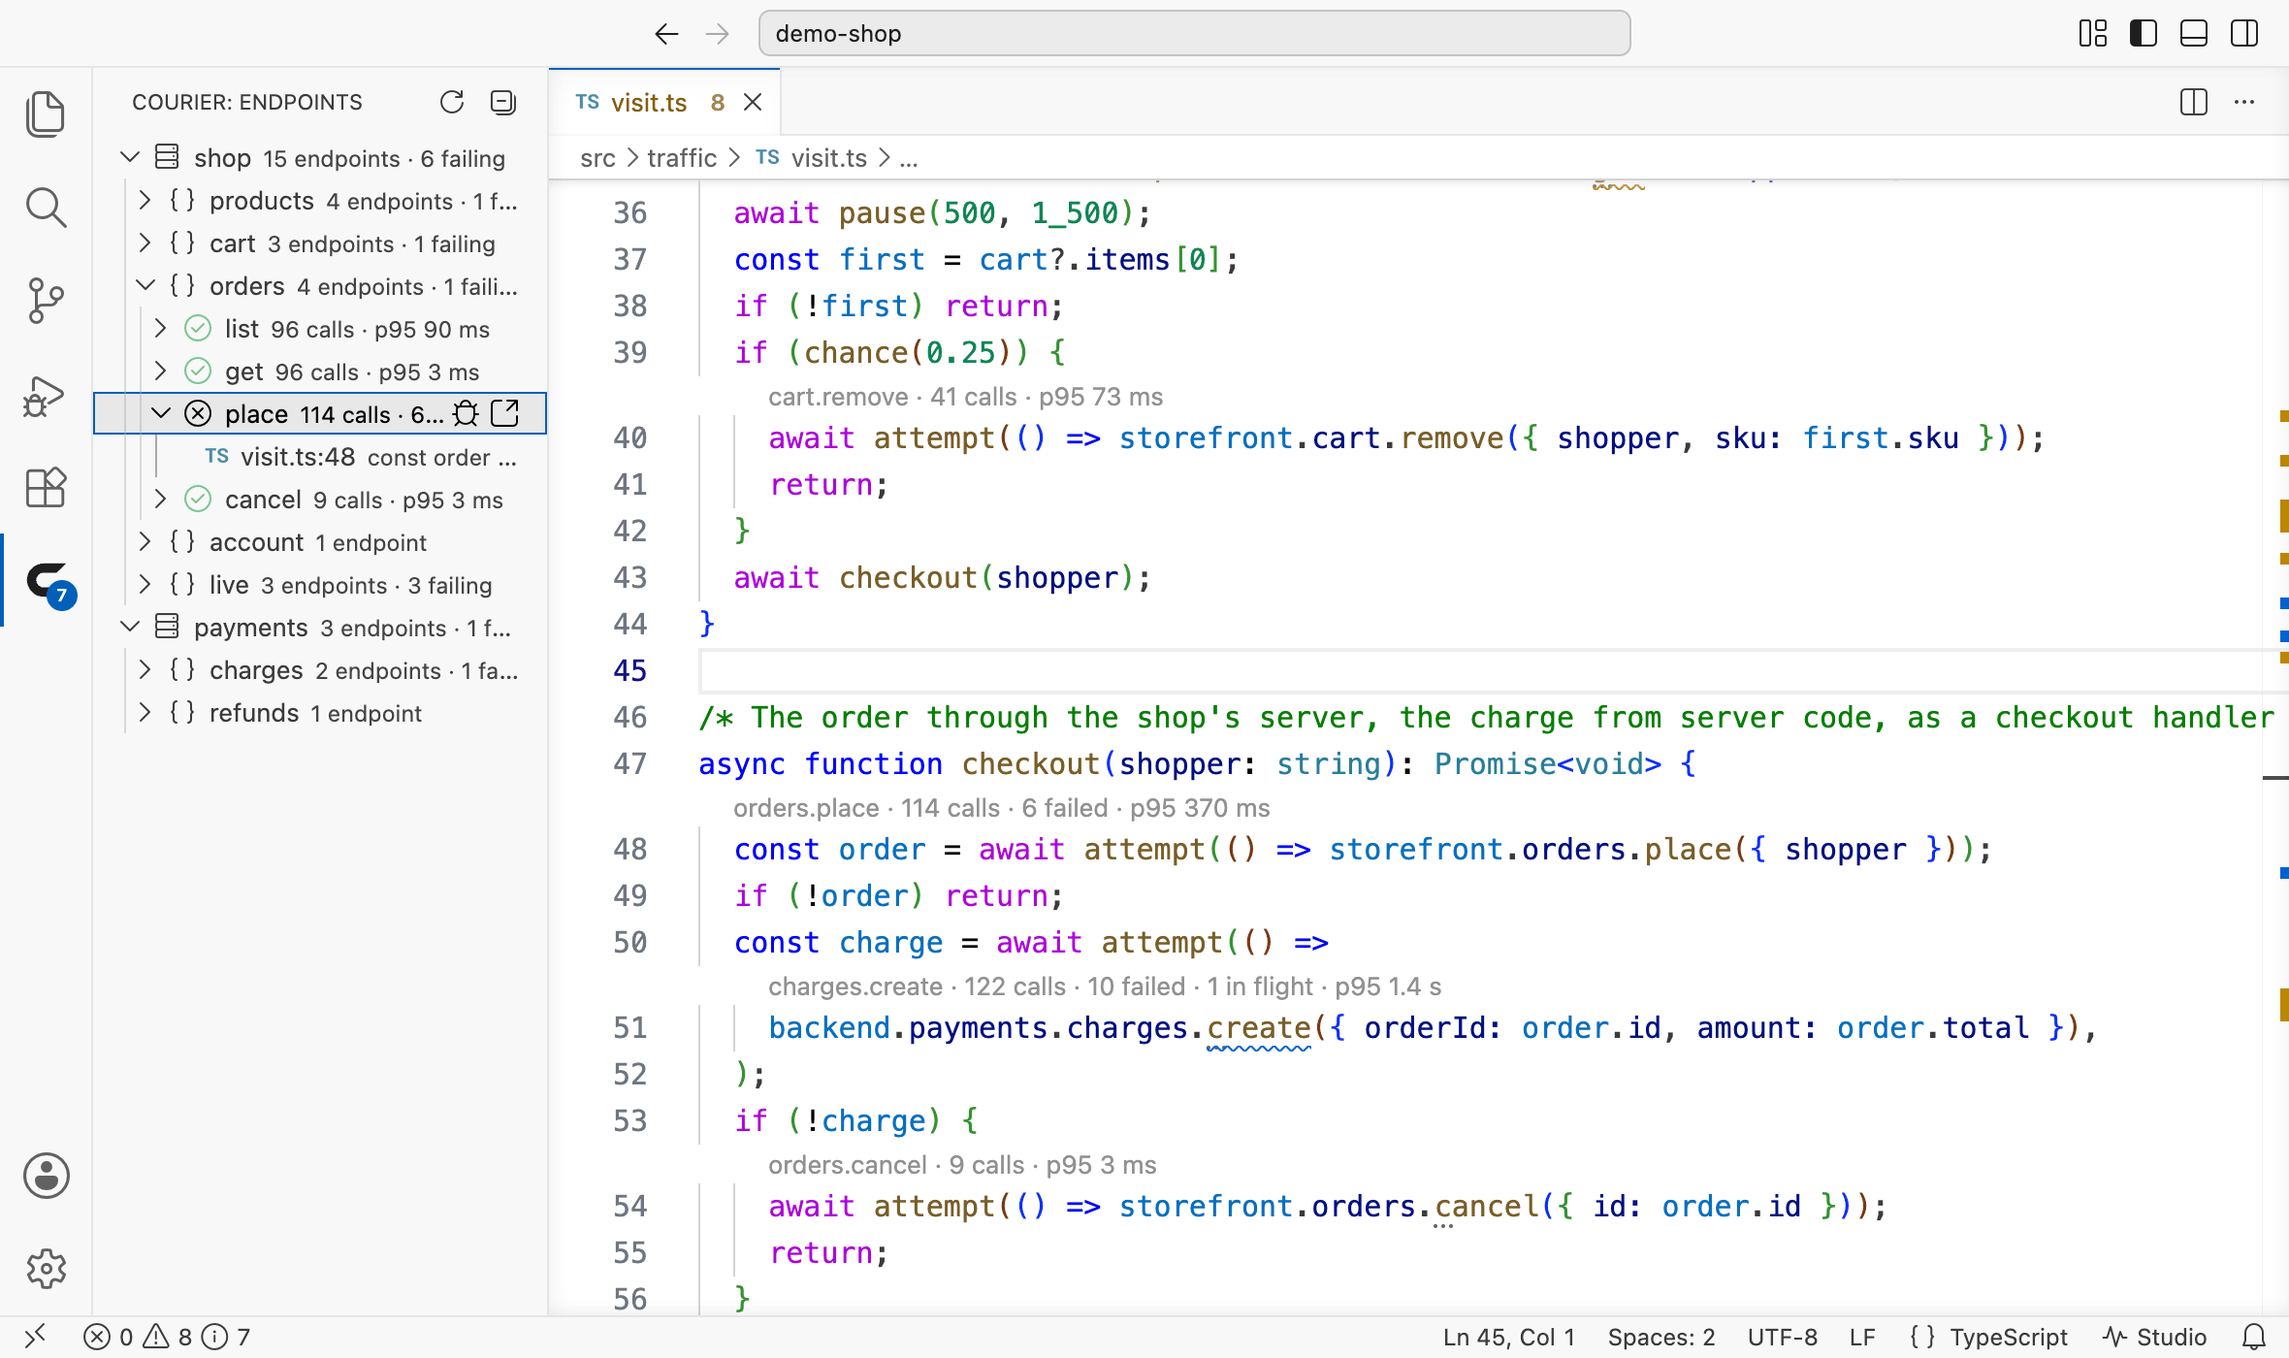
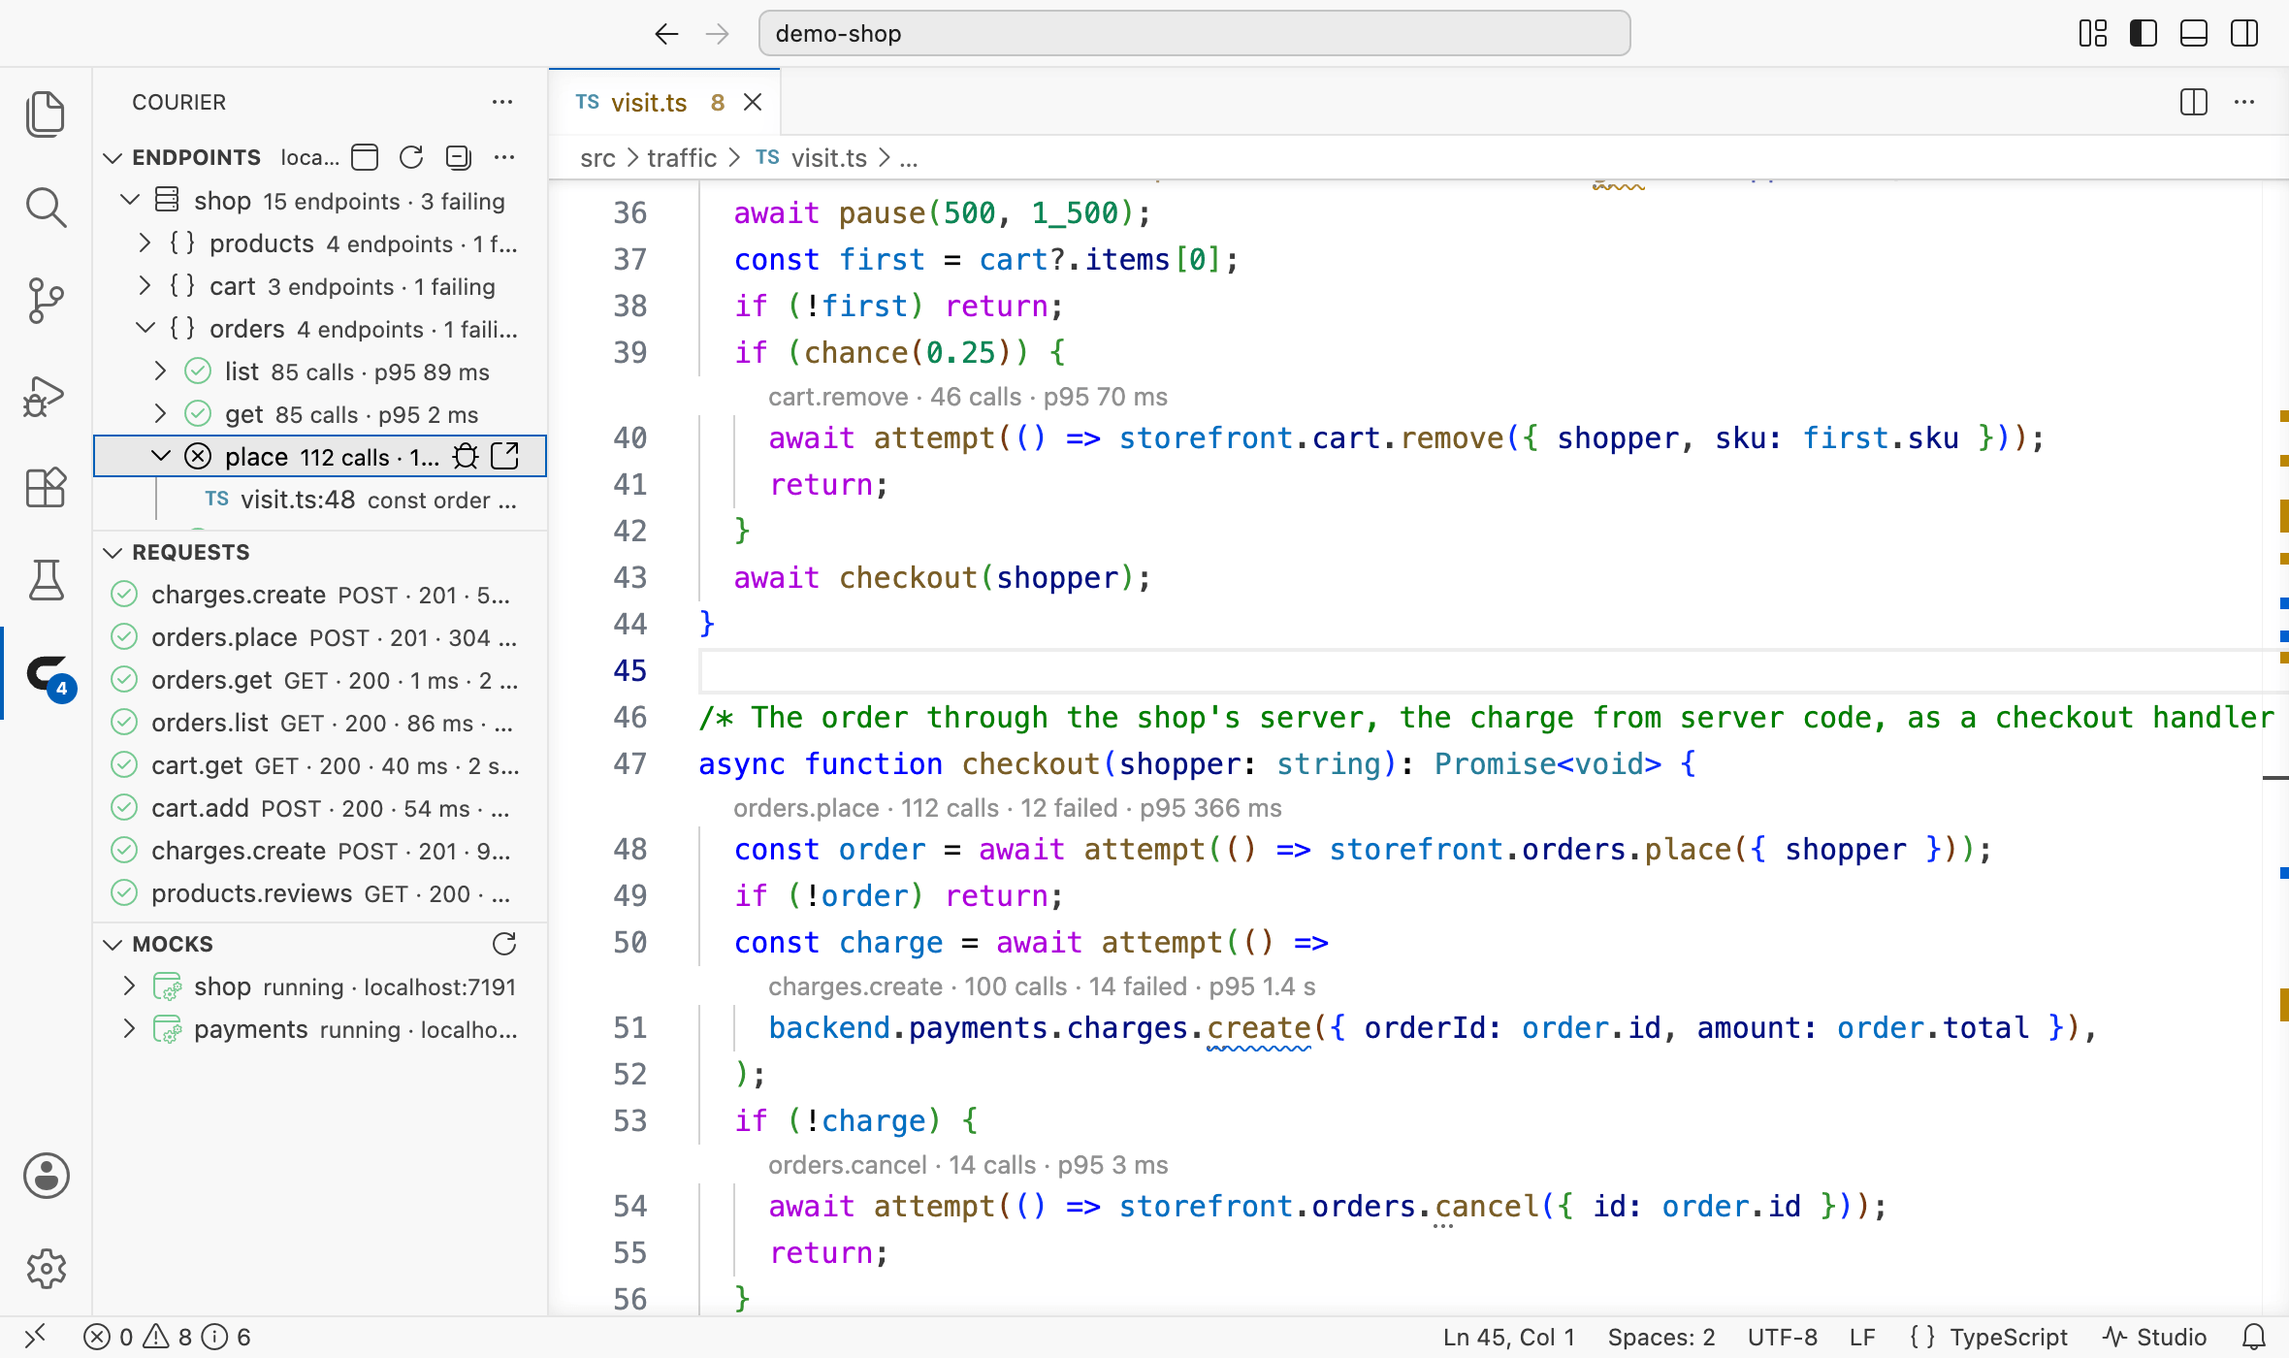
docs(vscode): 📝 describe the extension's features in its README
The README, the walkthrough and the manifest's description now name
what the extension does beyond the hints: Studio in a tab, code
navigation, the live views, new endpoints, tests and tasks, @courier
and the file icons. The walkthrough gains steps with their own shots
for Studio's tab, the live views, @courier and the icons.

diff --git a/packages/vscode/README.md b/packages/vscode/README.md
@@ -6,7 +6,7 @@
 
   <p><strong>Courier Studio in your editor.</strong></p>
 
-  <p>Above each call to an endpoint, how its calls went in the Studio running for your project — how many, how many failed, how many are still in flight, and how long nineteen in twenty took. Every endpoint in a view of its own, with the code that calls it; the audit's findings where the code calls; Studio started in a click; and your API offered to VS Code's agent.</p>
+  <p>Above each call to an endpoint, how its calls went in the Studio running for your project — how many, how many failed, how many are still in flight, and how long nineteen in twenty took. Studio in a tab beside your code; from a call to its endpoint and back; the requests Studio records and the mocks it runs, in views of their own; new endpoints written the way your files write them; recorded calls in the Test Explorer; <code>@courier</code> in the chat; the audit's findings where the code calls; and your API offered to VS Code's agent.</p>
 
   <p>
     <a href="https://code.visualstudio.com/"><img alt="VS Code 1.95 or later" src="https://img.shields.io/badge/vs%20code-1.95%2B-1c63d6?style=flat-square&labelColor=08090a" /></a>
@@ -42,11 +42,39 @@ You find out an endpoint is slow, or failing, where you are already looking: in 
   <tr>
     <td width="33%" valign="top">
       <h4>Figures where you work</h4>
-      Calls, failures, calls in flight and the 95th percentile, above every call to an endpoint, kept up to date while the window has focus.
+      Calls, failures, calls in flight and the 95th percentile, above every call to an endpoint or at the end of its line, kept up to date while the window has focus.
     </td>
+    <td width="33%" valign="top">
+      <h4>Studio in your editor</h4>
+      Every page of Studio's in a tab beside your code, in the editor's theme, with your project's token — or in your browser, as you choose.
+    </td>
+    <td width="33%" valign="top">
+      <h4>From a call to its endpoint</h4>
+      Go to Definition from a call to its declaration, Find All References to every call, the figures over each declaration, every endpoint in Go to Symbol.
+    </td>
+  </tr>
+  <tr>
     <td width="33%" valign="top">
       <h4>Every endpoint in one view</h4>
       Sources, groups and endpoints with how their calls went, a badge counting the failing ones, and each place your code calls them.
+    </td>
+    <td width="33%" valign="top">
+      <h4>Requests and mocks, live</h4>
+      The latest requests Studio recorded, failed ones first when you ask; each mock with its scenarios, a click switching them, its delays and faults a click away.
+    </td>
+    <td width="33%" valign="top">
+      <h4>New endpoints, written for you</h4>
+      <b>New Endpoint…</b> types one into its group the way that file writes them; import an API, open its OpenAPI document, check what a change breaks.
+    </td>
+  </tr>
+  <tr>
+    <td width="33%" valign="top">
+      <h4>Recorded calls as tests</h4>
+      The calls Studio recorded show in the Test Explorer and run against the API as declared now; Courier's commands run as tasks.
+    </td>
+    <td width="33%" valign="top">
+      <h4>Ask <code>@courier</code></h4>
+      <code>/status</code>, <code>/failures</code>, <code>/audit</code>, <code>/endpoint</code> answered from Studio, and any question by the chat's model from Studio's figures.
     </td>
     <td width="33%" valign="top">
       <h4>The audit at your calls</h4>
@@ -55,16 +83,16 @@ You find out an endpoint is slow, or failing, where you are already looking: in 
   </tr>
   <tr>
     <td width="33%" valign="top">
-      <h4>One click to Studio</h4>
-      The endpoint, its failed calls, or the latest failure in Studio's inspector; and Studio started for you when it does not run.
-    </td>
-    <td width="33%" valign="top">
       <h4>Your API for the agent</h4>
       VS Code's agent gets each project's MCP servers — its API and its Studio — with no <code>mcp.json</code> to write.
     </td>
     <td width="33%" valign="top">
+      <h4>Courier's file icons</h4>
+      Its own icons for <code>courier.config.ts</code>, <code>courier.mocks.ts</code> and <code>.courier</code> in Material Icon Theme and vscode-icons, put in and taken out when you ask.
+    </td>
+    <td width="33%" valign="top">
       <h4>Stays on your machine</h4>
-      It talks only to Studio on <code>localhost</code>, reads what any page of Studio's reads without its token, and stays off in Restricted Mode.
+      It talks only to Studio on <code>localhost</code>, sends nothing anywhere else, keeps no telemetry, and stays off in Restricted Mode.
     </td>
   </tr>
 </table>
@@ -78,12 +106,25 @@ You find out an endpoint is slow, or failing, where you are already looking: in 
 await api.orders.place({ sku, quantity })
 ```
 
-Hover over the call for the rest: the median and the 95th percentile, the statuses the calls ended with, and the latest failure with its reason — **Open the latest failure** opens that request in Studio's inspector. A stream or a channel shows how many were opened, and how many are open.
+Hover over the call for the rest: the median and the 95th percentile, the statuses the calls ended with, and the latest failure with its reason — **Open the latest failure** opens that request in Studio's inspector. A stream or a channel shows how many were opened, and how many are open. With `courier.hints.style` set to `inlay`, the figures sit at the end of the call's own line instead of a line above it.
 
 <picture>
   <source media="(prefers-color-scheme: dark)" srcset="https://raw.githubusercontent.com/NoveraX/courier/master/docs/public/images/vscode/hover-dark.png" />
   <img alt="The hover over a call to orders.place: its calls and failures in Courier Studio, the median and the 95th percentile, the statuses the calls ended with, the latest failure — a 409 Conflict — and links that open the endpoint and the failed request in Studio" src="https://raw.githubusercontent.com/NoveraX/courier/master/docs/public/images/vscode/hover-light.png" width="880" />
 </picture>
+
+<br />
+
+## Studio in your editor
+
+Every page of Studio's the extension opens — an endpoint, a request, the audit — opens in a tab of the editor's own, beside your code, in the editor's theme and with your project's token, so what changes things in Studio works there too. **Called from** opens the file beside it. `courier.studio.openIn` set to `browser` sends the pages to your browser instead.
+
+<picture>
+  <source media="(prefers-color-scheme: dark)" srcset="https://raw.githubusercontent.com/NoveraX/courier/master/docs/public/images/vscode/studio-tab-dark.png" />
+  <img alt="VS Code with the shop's checkout code on the left and Courier Studio in a tab on the right, open at the orders.place endpoint in its Explorer, in the editor's theme" src="https://raw.githubusercontent.com/NoveraX/courier/master/docs/public/images/vscode/studio-tab-light.png" width="880" />
+</picture>
+
+**Go to Definition** on a call opens the endpoint's declaration in its group's file; **Find All References** on a call or a declaration lists every call to it; above each declaration, its figures and how many places call it; and **Go to Symbol in Workspace** finds every endpoint by its full name.
 
 <br />
 
@@ -96,13 +137,54 @@ The Courier icon in the Activity Bar opens every endpoint of your project — ea
   <img alt="The Courier view beside the shop's checkout code: its sources, the groups of each with how many endpoints are failing, the orders group open — each endpoint with its calls, failures and p95 — and orders.place open at the line of the checkout that calls it" src="https://raw.githubusercontent.com/NoveraX/courier/master/docs/public/images/vscode/view-light.png" width="880" />
 </picture>
 
+Below it, **Requests** lists the latest requests Studio recorded — a click opens one in Studio's inspector — and **Mocks** each mock Studio runs: open one for its scenarios and click another to switch to it, or set one of Studio's delays or fault presets on it, and stop them again.
+
+<picture>
+  <source media="(prefers-color-scheme: dark)" srcset="https://raw.githubusercontent.com/NoveraX/courier/master/docs/public/images/vscode/live-dark.png" />
+  <img alt="The Courier view's Requests and Mocks views: the shop's latest requests with their methods, statuses and times, failed ones marked; the shop's mock open at its scenarios, the default one in force" src="https://raw.githubusercontent.com/NoveraX/courier/master/docs/public/images/vscode/live-light.png" width="880" />
+</picture>
+
 With no Studio running, the view starts one — your project's own `studio` script through its package manager, or `npx @noverax/courier-studio` — in a terminal of its own. In a workspace without Courier, **Set Up Courier** runs Create Courier, which shows its plan and changes nothing until you agree.
+
+<br />
+
+## Adding to your API, and testing it
+
+**New Endpoint…** — from the palette, the view, or the editor's context menu — asks for the group, the name, the method and the path, and types the endpoint in after the group's last one, the way that file writes its endpoints, its variables and response left for you to fill in. **Import an API…**, **Show OpenAPI Document…** and **Check API Changes…** run Studio's own commands for the project.
+
+The calls Studio recorded as tests, under `tests/recorded/`, show in the Test Explorer and run against the API as your code declares it now. **Terminal › Run Task… › courier** runs Studio, the recorded calls' check, the OpenAPI documents, the change report and the agents' list for each project.
+
+<br />
+
+## Ask @courier
+
+```text
+@courier /endpoint orders.place
+```
+
+`/status` says how every endpoint is doing, `/failures` lists the latest failed requests, `/audit` what the audit found, and `/endpoint` one endpoint — named, or the one under the cursor — with its latest calls, its declaration and the code that calls it. Any other question goes to the model you picked in the chat, with Studio's figures for this session.
+
+<picture>
+  <source media="(prefers-color-scheme: dark)" srcset="https://raw.githubusercontent.com/NoveraX/courier/master/docs/public/images/vscode/chat-dark.png" />
+  <img alt="The chat with @courier's answer to /endpoint shop.orders.place: its calls, failures and p95, its latest failure, its latest calls with their statuses and times, and an Open in Studio button" src="https://raw.githubusercontent.com/NoveraX/courier/master/docs/public/images/vscode/chat-light.png" width="880" />
+</picture>
 
 <br />
 
 ## The audit at your calls
 
 Studio's audit reads the requests it recorded; the extension marks its findings at the calls they concern, and in the Problems panel under **Courier audit**, each linking to Studio's Audit page. An audit error is a warning in the editor: the code compiles, its traffic needs a look.
+
+<br />
+
+## Courier's file icons
+
+With Material Icon Theme or vscode-icons in use in a Courier project, the extension offers once to show its own icons for `courier.config.ts`, `courier.mocks.ts` and the `.courier` folder, through the settings those themes read; **Courier: Remove Courier's Icons from the File Icon Theme** takes them out again.
+
+<picture>
+  <source media="(prefers-color-scheme: dark)" srcset="https://raw.githubusercontent.com/NoveraX/courier/master/docs/public/images/vscode/icons-dark.png" />
+  <img alt="The Explorer in vscode-icons: the .courier folder with Courier's folder icon, courier.config.ts with Courier's mark in blue and courier.mocks.ts with it in violet" src="https://raw.githubusercontent.com/NoveraX/courier/master/docs/public/images/vscode/icons-light.png" width="880" />
+</picture>
 
 <br />
 
@@ -121,16 +203,21 @@ Each runs from the project's folder, the API's handed the project's `.env` files
 
 Studio writes where it runs to `.courier/studio.json` in your project, and the extension reads it — for a monorepo, each project's own Studio, the one nearest the file you are in. Studio finds the calls in the file as it stands in the editor, saved or not, the same way it finds them for **Called from** in its inspector: a member chain that ends with an endpoint's name, `api.orders.place()`, and a query hook that names one, `q.orders.useQuery("list")`, in TypeScript, JavaScript, and the scripts of Vue, Svelte and Astro components.
 
-The extension sends Studio the text of the files you open, so it talks only to a Studio on this machine: an address naming another host, in a project's file or in the settings, is ignored.
+The extension sends Studio the text of the files you open, so it talks only to a Studio on this machine: an address naming another host, in a project's file or in the settings, is ignored. It reads Studio's token from the project's `.courier/studio-token` only for what changes something — a mock's scenario or conditions, and Studio's own tab — and a question to `@courier` in words goes to the model you picked in the chat with Studio's figures for this session. It sends nothing anywhere else.
 
 <br />
 
 ## Commands
 
 - **Courier: Open in Courier Studio** — open Studio for the project of the file in front
+- **Courier: Open Studio in Editor** / **Open Studio in Browser** — open Studio in a tab of the editor's own, or in your browser
 - **Courier: Start Studio** — start Studio for the project of the file in front, or the one you pick
 - **Courier: Set Up Courier** — run Create Courier in a terminal, in the workspace folder you pick
+- **Courier: New Endpoint…** — add an endpoint to a group, as its file writes them
+- **Courier: Import an API…**, **Show OpenAPI Document…**, **Check API Changes…** — Studio's own commands, for the project you pick
+- **Courier: Show Courier's Icons in the File Icon Theme** / **Remove Courier's Icons from the File Icon Theme**
 - **Courier: Refresh Endpoint Hints** — find the calls again and bring the figures up to date
+- **Courier: Show Log** — Courier's log in the Output panel: each Studio starting and stopping, and why a question to one found no answer
 
 From Studio the other way round: each call site in **Called from** opens in your editor; choose which in Studio's Settings → Editor.
 
@@ -140,10 +227,14 @@ From Studio the other way round: each call site in **Called from** opens in your
 
 | Setting | What it does |
 | --- | --- |
-| `courier.hints.enabled` | Show the hints above endpoint calls (default: on) |
+| `courier.hints.enabled` | Show the figures over endpoint calls (default: on) |
+| `courier.hints.style` | `codeLens`: a line above each call (default); `inlay`: at the end of the call's line |
 | `courier.hints.refreshSeconds` | How often the figures are brought up to date while the window has focus (default: 5) |
+| `courier.studio.openIn` | Where Studio's pages open: a tab of the editor's own (default), or the browser |
 | `courier.audit.diagnostics` | Mark the audit's findings at the calls they concern (default: on) |
+| `courier.notifications.failures` | Tell with a notification when a call fails while you work, at most once a minute per endpoint (default: off) |
 | `courier.agents.mcpServers` | Offer VS Code's agent each project's MCP servers (default: on) |
+| `courier.fileIcons.offer` | Offer once to put Courier's icons into the icon theme in use (default: on) |
 | `courier.studio.url` | Studio's address, when it runs for a project outside this workspace — on this machine, in your user settings |
 
 <br />
